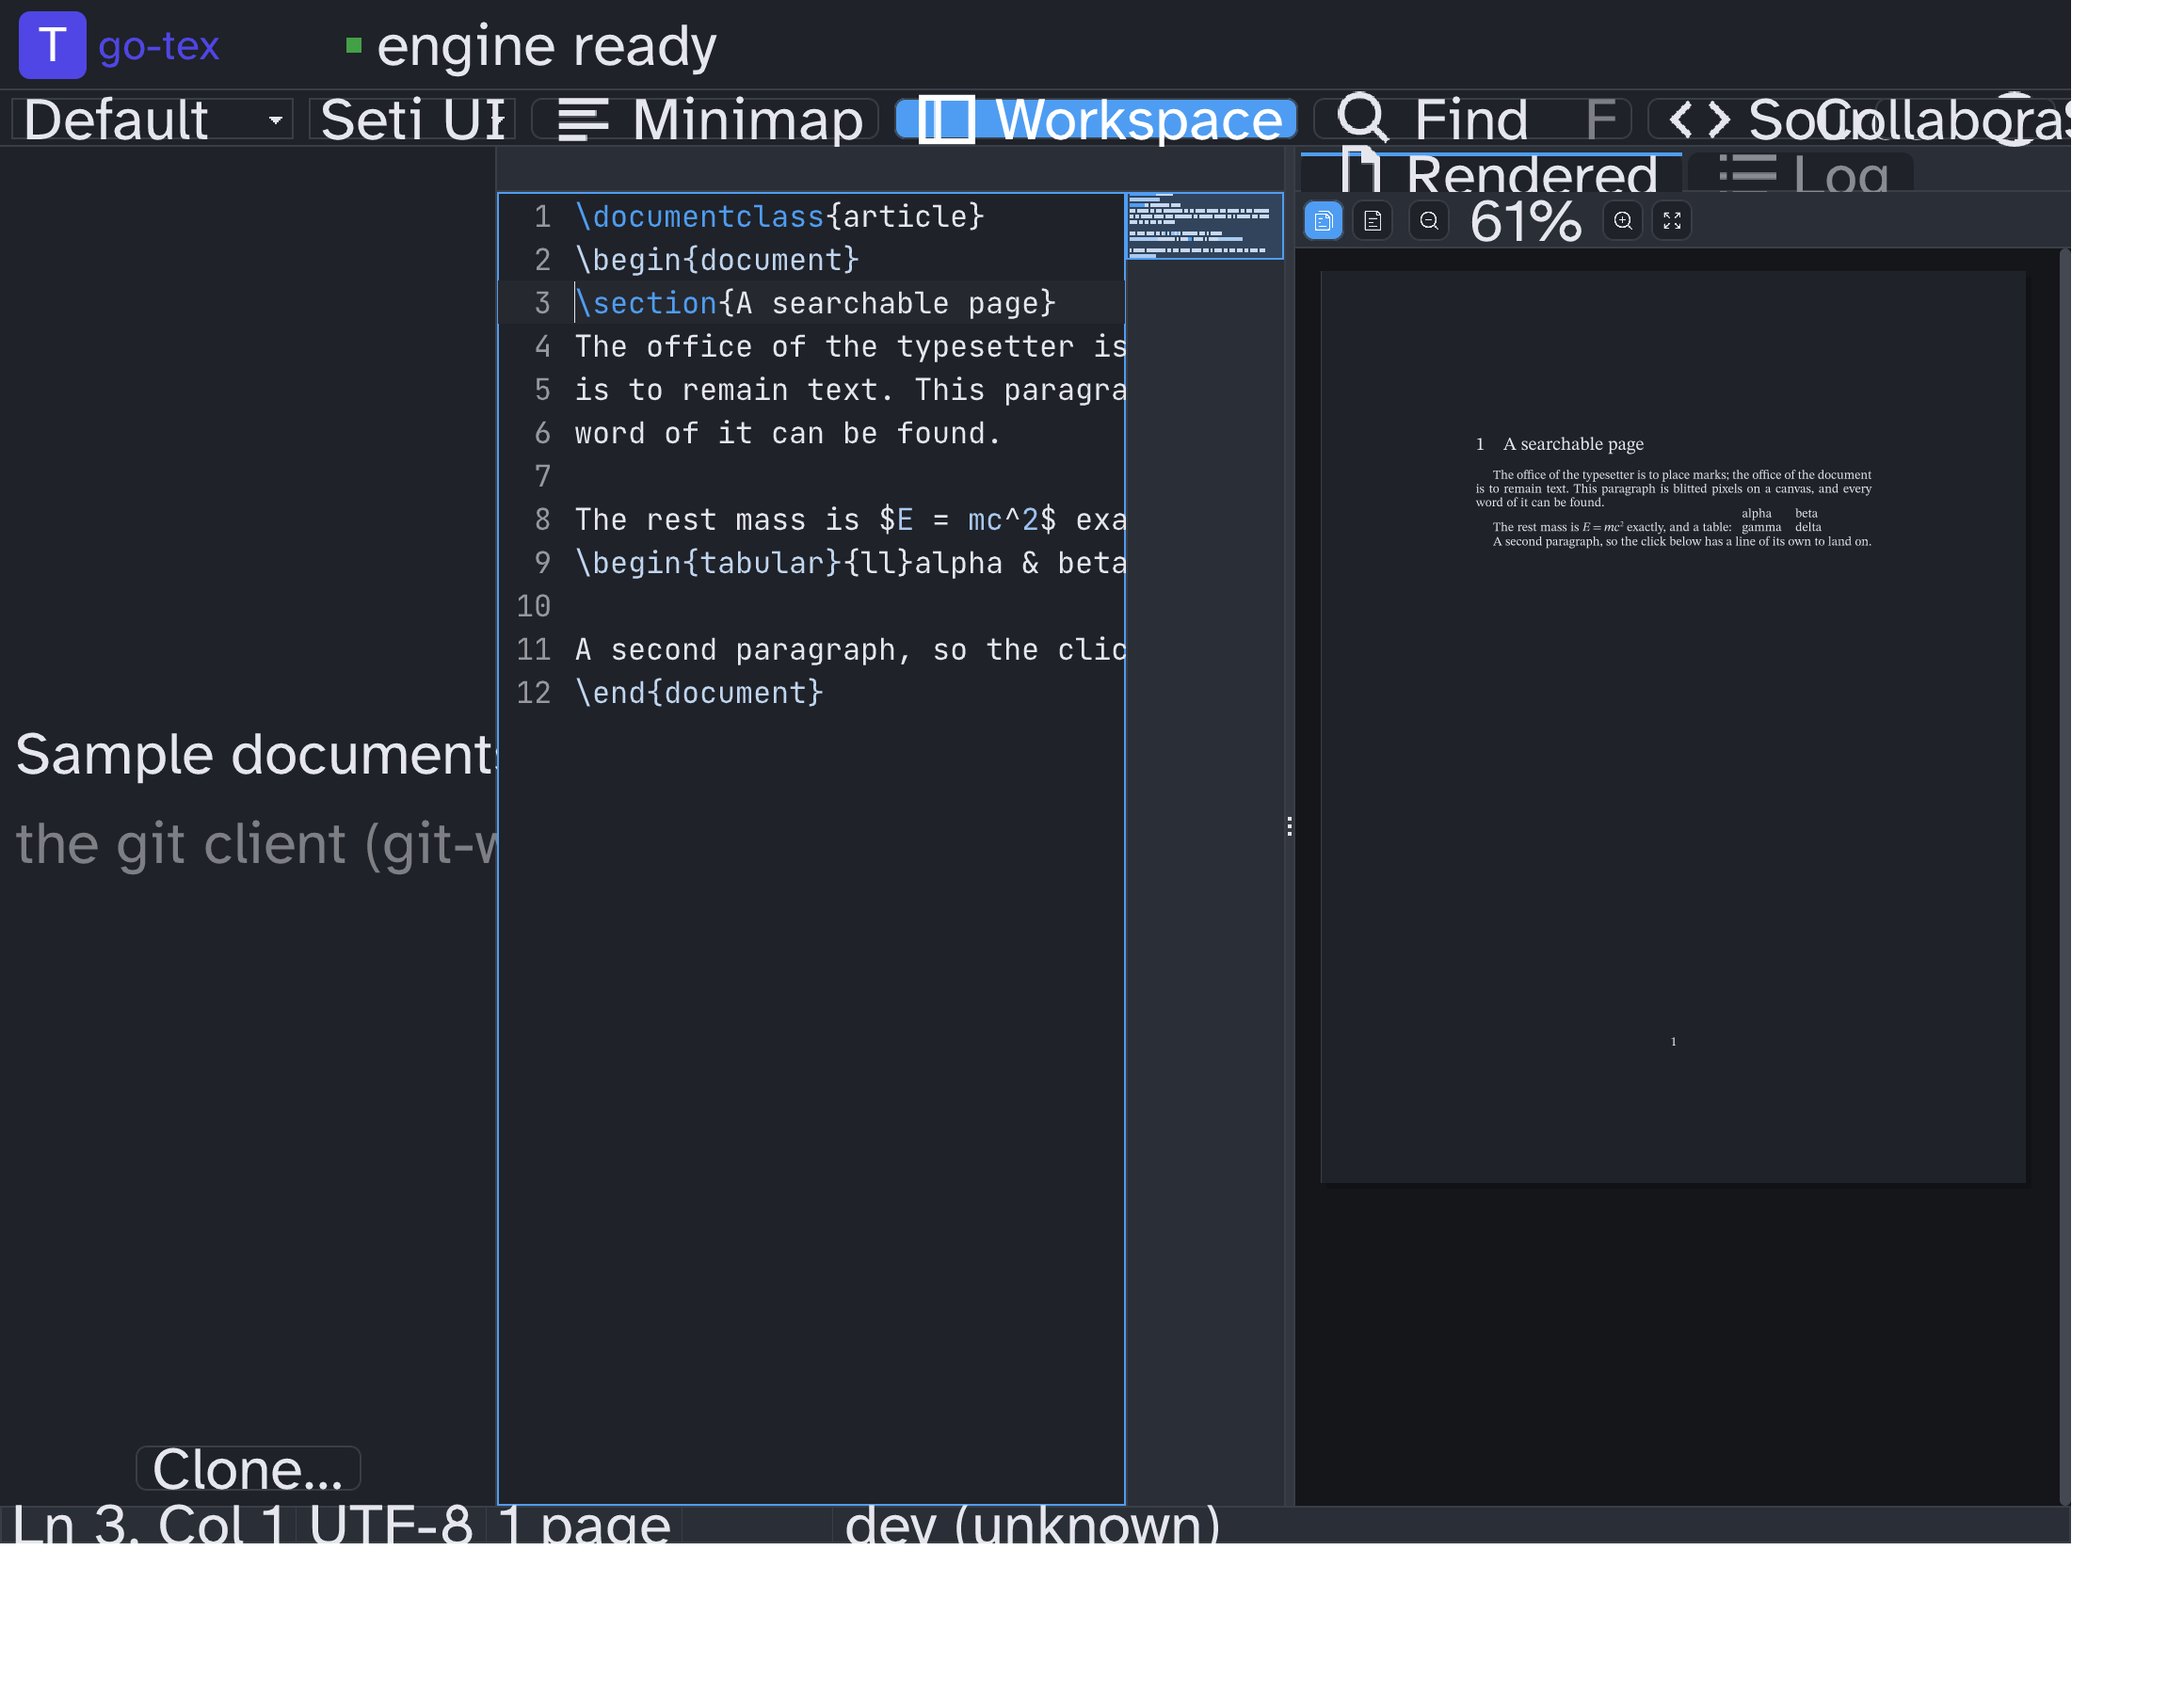
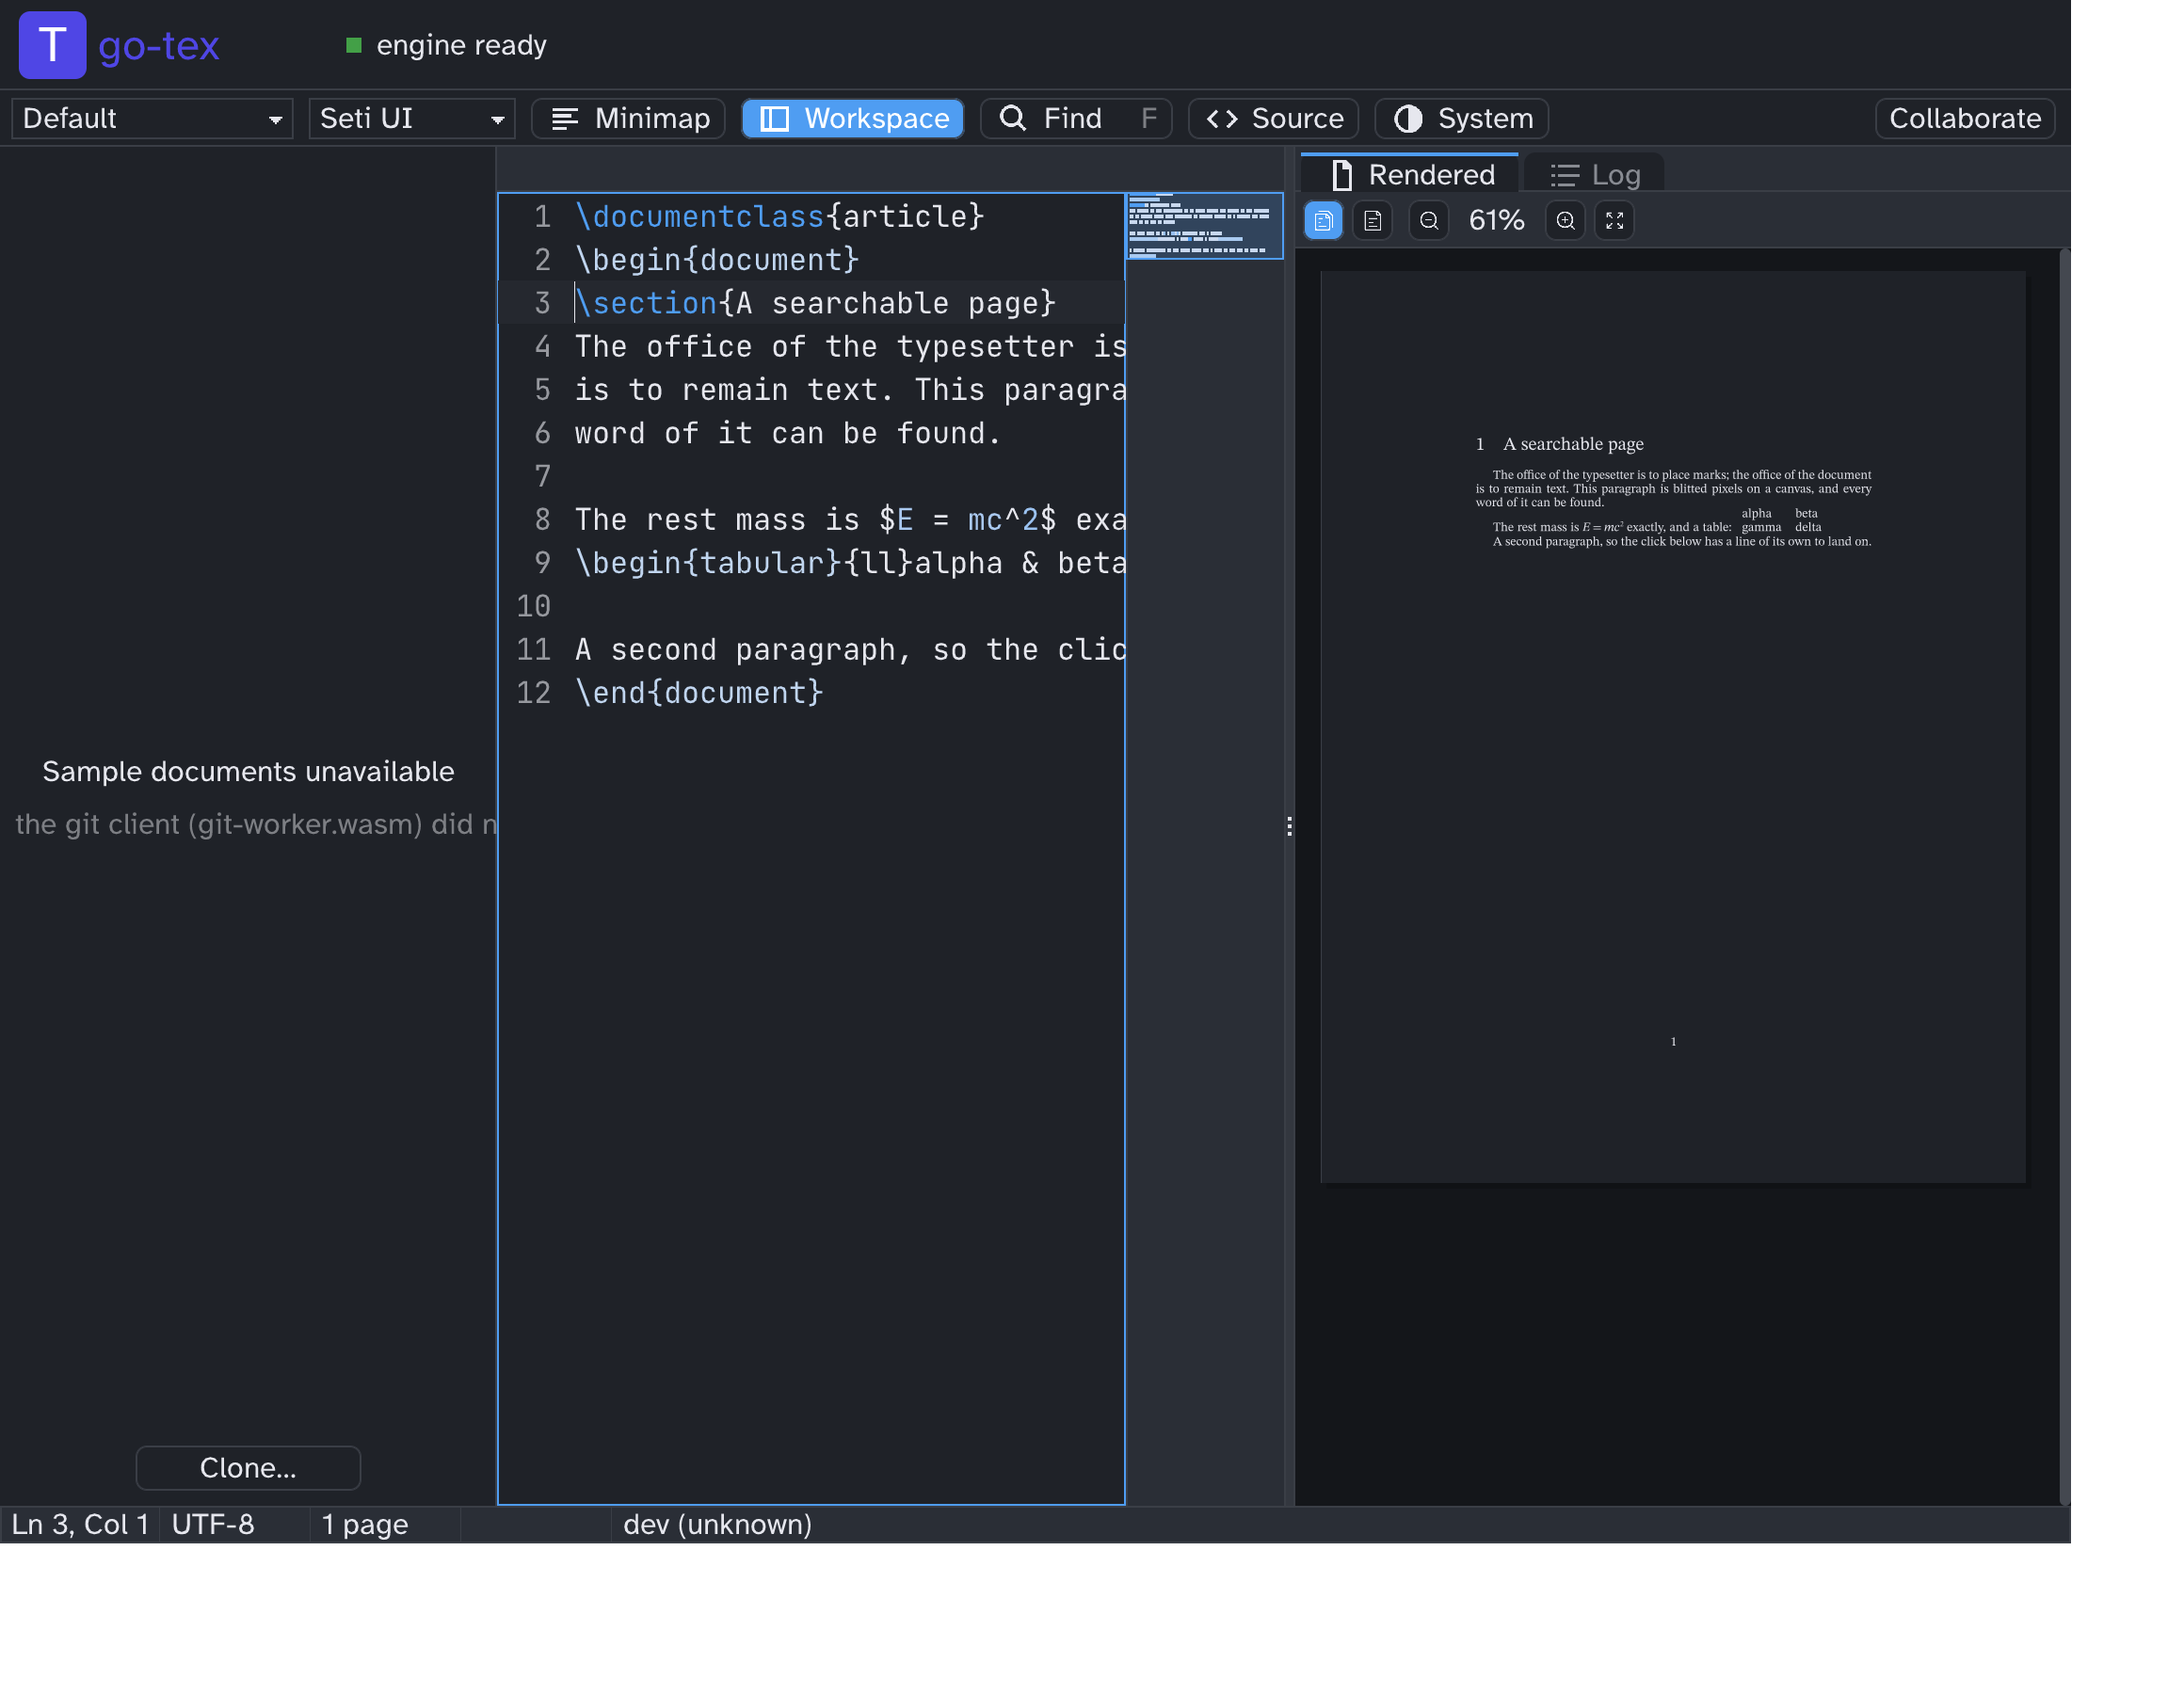
playground: the device ratio was applied TWICE to the text (#192)
* playground: the device ratio was applied TWICE to the text

Reported from a Retina Mac: the font size looks wrong. It is, and by a lot —
the four workspace tabs come out 60–73% too wide for their labels.

SetupText did both halves of the HiDPI setup:

    toolkit.SetMetricScale(scale)
    toolkit.UseOpenTypeTextSize(int(baseFontPx*scale + 0.5))

and SetMetricScale already scales the text. Its own comment says so — "The
text follows ... every other metric here is multiplied by the scale and the one
thing a person actually reads was not, so an application on a HiDPI display got
labels at half the size it asked for and had to re-render the face itself" —
and it calls rescaleText(). So the size passed here must be the LOGICAL one.

Measured with the toolkit, four lines:

    metricScale 1, size 16   TextWidth("Source") =  50
    metricScale 1, size 32   TextWidth("Source") =  98
    metricScale 2, size 16   TextWidth("Source") =  98   ← correct at dpr 2
    metricScale 2, size 32   TextWidth("Source") = 195   ← what this did

This is the shape of a dependency that grew a feature: the toolkit did not
rescale text when SetupText was written, so the application did it, and when
the toolkit started doing it the application's compensation became the defect.

applyEditorFont is NOT affected and is left alone: it builds an explicit
TrueType face, which does not go through the package rescale, so it must be
[…]

diff --git a/playground/dpr_browser_test.go b/playground/dpr_browser_test.go
@@ -1,0 +1,96 @@
+// Copyright (c) the go-tex authors.
+// SPDX-License-Identifier: BSD-3-Clause
+
+//go:build !js
+
+package playground_test
+
+import (
+	"net/http"
+	"net/http/httptest"
+	"os"
+	"os/exec"
+	"path/filepath"
+	"runtime"
+	"strings"
+	"testing"
+)
+
+// TestLayoutIsTheSameAtEveryDevicePixelRatio is the real-browser proof of the one
+// claim the HiDPI path makes: the canvas backing store is the CSS box × dpr and
+// the toolkit renders at that device scale (cmd/playground-wasm/main.go,
+// SetupText), so a reader on a Retina panel sees the SAME layout as a reader on a
+// 1× panel — crisper, not bigger.
+//
+// It loads the REAL app twice in the same CSS viewport, at deviceScaleFactor 1 and
+// 2, and compares every device-pixel rect the app reports once divided back by the
+// ratio, plus the rendered page's own CSS box and a run of the document's text.
+//
+// Anything that forgets the scale shows up here as a factor of two, which is what
+// a reader reports as "the font size is wrong on the Mac screen": glyphs keeping
+// their 1× size inside boxes that doubled, or the reverse. A pixel of rounding is
+// allowed; a forgotten scale is not a pixel.
+//
+// It needs a browser, which CI does not have, so it skips unless one is found
+// (GOTEX_REQUIRE_BROWSER turns a missing browser into a failure). It reuses the
+// browser/puppeteer discovery + wasm-MIME helpers from collab_browser_test.go.
+func TestLayoutIsTheSameAtEveryDevicePixelRatio(t *testing.T) {
+	required := os.Getenv("GOTEX_REQUIRE_BROWSER") != ""
+	need := func(what, path string, err error) string {
+		if err != nil || path == "" {
+			if required {
+				t.Fatalf("GOTEX_REQUIRE_BROWSER is set but %s is missing: %v", what, err)
+			}
+			t.Skipf("%s not found; skipping the HiDPI layout proof", what)
+		}
+		return path
+	}
+
+	nodeBin, nodeErr := exec.LookPath("node")
+	node := need("node", nodeBin, nodeErr)
+	chromeBin, chromeErr := locateChrome()
+	chrome := need("a Chrome binary", chromeBin, chromeErr)
+	puppeteerDir, puppeteerErr := locatePuppeteer()
+	nodePath := need("puppeteer-core", puppeteerDir, puppeteerErr)
+	wasmExec := filepath.Join(runtime.GOROOT(), "lib", "wasm", "wasm_exec.js")
+	if _, err := os.Stat(wasmExec); err != nil {
+		need("wasm_exec.js", "", err)
+	}
+
+	root := t.TempDir()
+	copyFile(t, wasmExec, filepath.Join(root, "wasm_exec.js"))
+	copyFile(t, "browsertest/pages-index.html", filepath.Join(root, "index.html"))
+
+	build := exec.Command("go", "build", "-o", filepath.Join(root, "client.wasm"), "./cmd/playground-wasm")
+	build.Env = append(os.Environ(), "GOOS=js", "GOARCH=wasm", "GOWORK=off")
+	if out, err := build.CombinedOutput(); err != nil {
+		t.Fatalf("building the playground wasm failed: %v\n%s", err, out)
+	}
+
+	srv := httptest.NewServer(wasmMIME(http.FileServer(http.Dir(root))))
+	defer srv.Close()
+
+	cmd := exec.Command(node, "browsertest/dpr-driver.cjs")
+	cmd.Env = append(os.Environ(),
+		"PAGE_URL="+srv.URL+"/index.html",
+		"CHROME="+chrome,
+		"NODE_PATH="+nodePath,
+	)
+	out, err := cmd.CombinedOutput()
+	t.Logf("browser driver output:\n%s", out)
+	log := string(out)
+	// The premise first: a run that did not really get the two ratios proves
+	// nothing about them, and would otherwise pass by comparing 1 with 1.
+	if !strings.Contains(log, "PASS the two runs really had ratio 1 and 2") {
+		t.Fatalf("the driver did not obtain both device-pixel ratios")
+	}
+	if !strings.Contains(log, "PASS the app reported some rects to compare") {
+		t.Fatalf("no rect was compared: an empty comparison is not a passing one")
+	}
+	if err != nil {
+		t.Fatalf("the HiDPI layout proof failed: %v", err)
+	}
+	if !strings.Contains(log, "DRIVER_OK") {
+		t.Fatalf("the driver did not finish")
+	}
+}

diff --git a/playground/app.go b/playground/app.go
@@ -122,16 +122,35 @@ const (
 )
 
 // SetupText installs the toolkit's anti-aliased text and metric scale for a
-// device-pixel ratio: text renders at baseFontPx*scale and every box metric is
-// scaled to match, so the UI is crisp on a HiDPI panel and byte-identical at
-// scale 1. The driver calls it (with window.devicePixelRatio) before building
-// the State; tests call SetupText(1).
+// device-pixel ratio: every box metric is scaled, the text face with them, so the
+// UI is crisp on a HiDPI panel and byte-identical at scale 1. The driver calls it
+// (with window.devicePixelRatio) before building the State; tests call
+// SetupText(1).
+//
+// ⛔⛔ The SIZE HERE IS LOGICAL. SetMetricScale scales the text too — "The text
+// follows", says its own comment, and it calls rescaleText() — so multiplying the
+// size by the scale as well applied the device ratio TWICE to everything a reader
+// reads, while the padding around it was scaled once. Measured with the toolkit:
+//
+//	metricScale 1, size 16   TextWidth("Source") =  50
+//	metricScale 1, size 32   TextWidth("Source") =  98
+//	metricScale 2, size 16   TextWidth("Source") =  98   ← correct at dpr 2
+//	metricScale 2, size 32   TextWidth("Source") = 195   ← what this did
+//
+// On a Retina panel the four workspace tabs came out 60–73% too wide for their
+// labels — a real browser at deviceScaleFactor 1 against 2 measured sourceTab at
+// 92 against 159 CSS pixels, while their HEIGHTS matched exactly, which is what
+// pins it on the text and not the boxes.
+//
+// It is the shape of a dependency that grew a feature: the toolkit did not rescale
+// text when this was written, so the application did it, and when the toolkit
+// started doing it the application's compensation became the defect.
 func SetupText(scale float64) {
 	if scale <= 0 {
 		scale = 1
 	}
 	toolkit.SetMetricScale(scale)
-	_ = toolkit.UseOpenTypeTextSize(int(float64(baseFontPx)*scale + 0.5))
+	_ = toolkit.UseOpenTypeTextSize(baseFontPx)
 }
 
 // State is the whole playground: the widget tree, the current theme, the last
